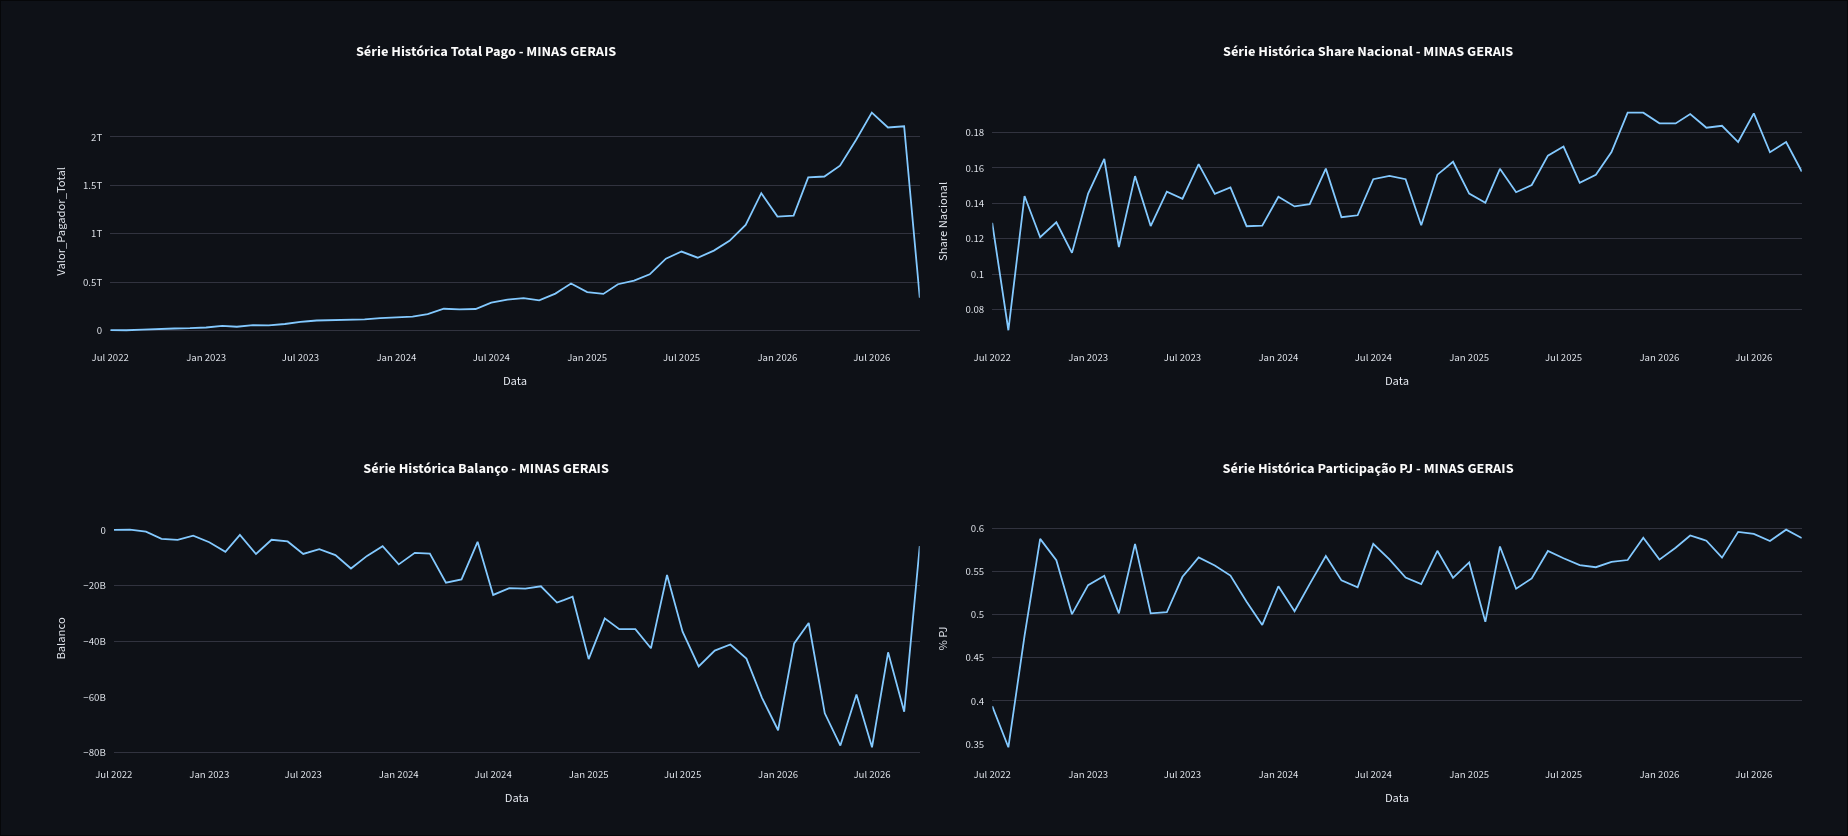
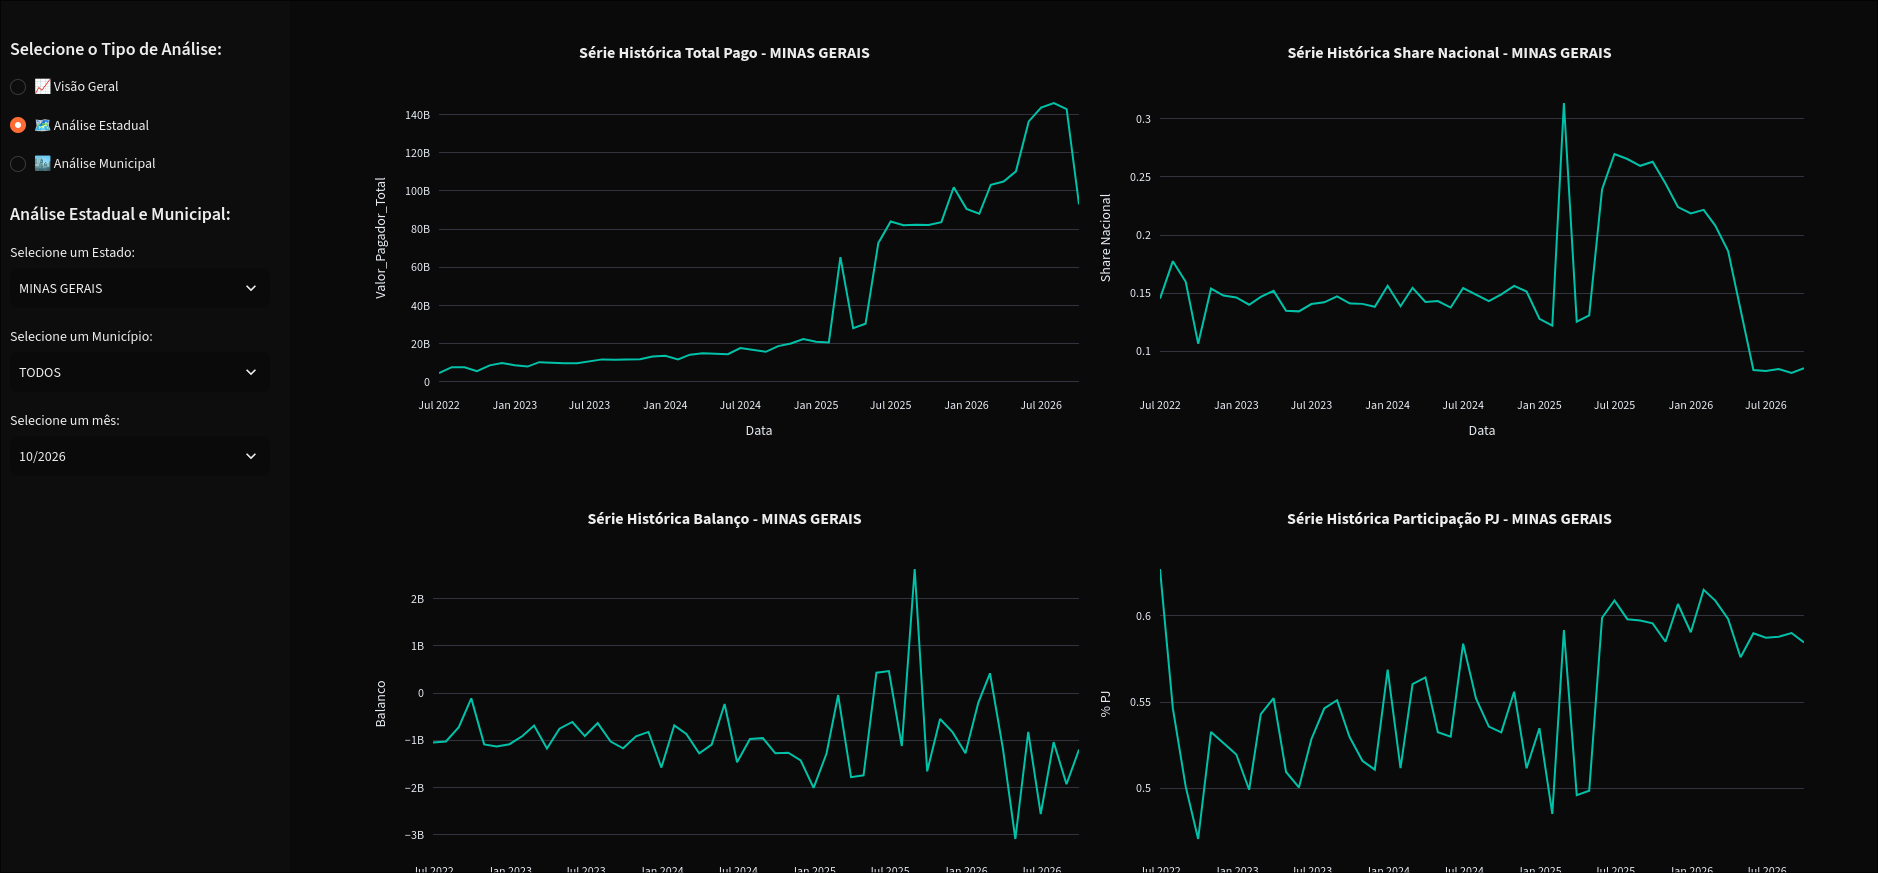
dashboard atualizado

diff --git a/src/app.py b/src/app.py
@@ -12,28 +12,36 @@ st.set_page_config(layout="wide")
 st.title('📊 Estatísticas e Indicadores do Pix por Município')
 apply_theme()
 
-estados = [r["Estado"] for r in get_estados(engine)]
-estados.insert(0, "TODOS")
-estado = st.selectbox("Selecione um Estado:", estados)
-
-if estado == "TODOS":
-        municipios = ["TODOS"]
-else:
-    municipios = [r["Municipio"] for r in get_municipios(engine, estado)]
-    municipios.insert(0, "TODOS")
-municipio = st.selectbox("Selecione um Município:", municipios)
-
-meses = [r["AnoMes"] for r in get_ano_mes(engine)]
-meses.reverse()
-
 with st.sidebar:
-    st.text("Selecione:")
+    st.subheader("Selecione o Tipo de Análise:")
     aba = st.radio(
         "Seção",
         ["📈 Visão Geral", "🗺 Análise Estadual", "🏙 Análise Municipal"],
         horizontal=True,
         key="aba_ativa",
         label_visibility="collapsed",
+    )
+
+    meses = [r["AnoMes"] for r in get_ano_mes(engine)]
+    meses.reverse()
+
+    st.subheader("Análise Estadual e Municipal:")
+    estados = [r["Estado"] for r in get_estados(engine)]
+    estados.insert(0, "TODOS")
+    estado = st.selectbox("Selecione um Estado:", estados)
+
+    if estado == "TODOS":
+            municipios = ["TODOS"]
+    else:
+        municipios = [r["Municipio"] for r in get_municipios(engine, estado)]
+        municipios.insert(0, "TODOS")
+    municipio = st.selectbox("Selecione um Município:", municipios)
+
+    ano_mes = st.selectbox(
+        "Selecione um mês:", 
+        meses, 
+        key="mes_estado",
+        format_func=lambda d: d.strftime("%m/%Y")
     )
 
 if aba == "📈 Visão Geral":    
@@ -132,19 +140,13 @@ if aba == "📈 Visão Geral":
         make_top_bar(top_pj,  title=f"Top 10 Municípios por Valor Pago por PJ - {estado}", y_label="Valor Pago")
 
 elif aba == "🗺 Análise Estadual":
-    ano_mes_estado = st.selectbox(
-        "Selecione um mês:", 
-        meses, 
-        key="mes_estado",
-        format_func=lambda d: d.strftime("%Y-%m")
-    )
     if estado == 'TODOS':
         st.warning("Selecione um estado!")
     else:
-        if not get_gold_estados(engine, estado, ano_mes_estado):
-            st.warning(f"Dados Não Obtidos para {estado} - {ano_mes_estado}")
+        if not get_gold_estados(engine, estado, ano_mes):
+            st.warning(f"Dados Não Obtidos para {estado} - {ano_mes}")
         else:
-            gold_estado_data = get_gold_estados(engine, estado, ano_mes_estado)[0]
+            gold_estado_data = get_gold_estados(engine, estado, ano_mes)[0]
             gold_estado_series = get_gold_estados_series(engine, estado)
             col3, col4 = st.columns(2)
 
@@ -161,9 +163,9 @@ elif aba == "🗺 Análise Estadual":
                     st.metric("Valor Total Pago", "Não Obtido")
                 
                 if balanco_estado:
-                    st.metric(f"Balanço Estadual em {ano_mes_estado}", show_values(balanco_estado))
+                    st.metric(f"Balanço Estadual em {ano_mes}", show_values(balanco_estado))
                 else:
-                    st.metric(f"Balanço Estadual em {ano_mes_estado}", "Não Obtido")
+                    st.metric(f"Balanço Estadual em {ano_mes}", "Não Obtido")
 
                 if var_mes_estado:
                     st.metric("Variação do Balanço em Relação ao Último Mês", f"{(var_mes_estado*100):.2f}%")
@@ -185,9 +187,9 @@ elif aba == "🗺 Análise Estadual":
                     st.metric("Porcentagem do Valor Pago PJ", "Não Obtida")
 
                 if share_nacional_estado:
-                    st.metric(f"Share Nacional em {ano_mes_estado}", f"{(share_nacional_estado*100):.2f}%")
+                    st.metric(f"Share Nacional em {ano_mes}", f"{(share_nacional_estado*100):.2f}%")
                 else:
-                    st.metric(f"Share Nacional em {ano_mes_estado}", "Não Obtido")
+                    st.metric(f"Share Nacional em {ano_mes}", "Não Obtido")
 
                 if var_ano_anterior_estado:
                     st.metric("Variação do Balanço em Relação ao Mesmo Mês do Ano Anterior", f"{(var_ano_anterior_estado*100):.2f}%")
@@ -204,18 +206,12 @@ elif aba == "🗺 Análise Estadual":
                     } for r in gold_estado_series], f"Série Histórica Participação PJ - {estado}")
 
 elif aba == "🏙 Análise Municipal":
-    ano_mes_municipio = st.selectbox(
-        "Selecione um mês:", 
-        meses, 
-        key="mes_municipio",
-        format_func=lambda d: d.strftime("%Y-%m")
-    )
     if estado == 'TODOS':
         st.warning("Selecione um estado!")
     if municipio == "TODOS":
         st.warning("Selecione um município!")
     else:
-        gold_municipio_data = get_gold_municipios(engine, estado, municipio, ano_mes_municipio)
+        gold_municipio_data = get_gold_municipios(engine, estado, municipio, ano_mes)
         gold_municipio_series = get_gold_municipios_series(engine, estado, municipio)
         if not gold_municipio_data:
             st.warning("Sem dados para este município neste mês.")
@@ -236,9 +232,9 @@ elif aba == "🏙 Análise Municipal":
                     st.metric("Valor Total Pago", "Não Obtido")
 
                 if balanco_municipio:
-                    st.metric(f"Balanço Municipal em {ano_mes_municipio}", show_values(balanco_municipio))
+                    st.metric(f"Balanço Municipal em {ano_mes}", show_values(balanco_municipio))
                 else:
-                    st.metric(f"Balanço Municipal em {ano_mes_municipio}", "Não Obtido")
+                    st.metric(f"Balanço Municipal em {ano_mes}", "Não Obtido")
 
                 if var_mes_anterior_municipio:
                     st.metric("Variação do Balanço em Relação ao Último Mês", f"{(var_mes_anterior_municipio):.2f}%")
@@ -246,7 +242,7 @@ elif aba == "🏙 Análise Municipal":
                     st.metric("Variação do Balanço em Relação ao Último Mês", "Não Obtida")
                 
                 make_series([
-                    {"Valor_Pagador_Total": r["VL_Pagador_Total_Municipio"],
+                    {"Valor Pagador Total": r["VL_Pagador_Total_Municipio"],
                     "Data": r["AnoMes"]
                     } for r in gold_municipio_series], f"Série Histórica Total Pago - {municipio}")
                 make_series([
@@ -265,14 +261,14 @@ elif aba == "🏙 Análise Municipal":
                     st.metric("Porcentagem do Valor Pago PJ", "Não Obtida")
 
                 if share_nacional_municipio:
-                    st.metric(f"Share Nacional em {ano_mes_municipio}", f"{(share_nacional_municipio*100):.2f}%")
+                    st.metric(f"Share Nacional em {ano_mes}", f"{(share_nacional_municipio*100):.2f}%")
                 else:
-                    st.metric(f"Share Nacional em {ano_mes_municipio}", "Não Obtido")
+                    st.metric(f"Share Nacional em {ano_mes}", "Não Obtido")
 
                 if share_estadual_municipio:
-                    st.metric(f"Share Estadual em {ano_mes_municipio}", f"{(share_estadual_municipio*100):.2f}%")
+                    st.metric(f"Share Estadual em {ano_mes}", f"{(share_estadual_municipio*100):.2f}%")
                 else:
-                    st.metric(f"Share Estadual em {ano_mes_municipio}", "Não Obtido")
+                    st.metric(f"Share Estadual em {ano_mes}", "Não Obtido")
 
                 make_series([
                     {"Share Nacional": r["Share_Nacional_Municipio"],

diff --git a/src/utils/database.py b/src/utils/database.py
@@ -1,5 +1,6 @@
 from sqlalchemy import TextClause
-from sqlalchemy import create_engine, insert, text
+from sqlalchemy import create_engine, text
+from sqlalchemy.dialects.postgresql import insert
 from sqlalchemy.engine import Engine
 
 from src.models.models import Base, DadosAPI
@@ -20,7 +21,10 @@ def upload_sql(engine: Engine, data):
 
     data = prepare_data(data)
     with engine.begin() as conn:
-        conn.execute(insert(DadosAPI), data)
+        query = insert(DadosAPI).on_conflict_do_nothing(index_elements=[
+            "AnoMes", "Municipio", "Estado"
+        ])
+        conn.execute(query, data)
 
     logger.info(f"{len(data)} registro(s) salvo(s)")
 

diff --git a/src/models/models.py b/src/models/models.py
@@ -1,3 +1,4 @@
+from sqlalchemy import UniqueConstraint
 from sqlalchemy import ForeignKey, BigInteger
 from datetime import date
 from sqlalchemy.orm import DeclarativeBase, Mapped, mapped_column
@@ -7,6 +8,9 @@ class Base(DeclarativeBase):
 
 class DadosAPI(Base):
     __tablename__ = "DadosAPI"
+    __table_args__ = (
+        UniqueConstraint("AnoMes", "Municipio", "Estado", name="unique_dados"),
+    )
  
     id: Mapped[int] = mapped_column(primary_key=True) 
     AnoMes: Mapped[date]

diff --git a/src/load_database.py b/src/load_database.py
@@ -14,5 +14,5 @@ logging.basicConfig(
 engine = _get_engine(DB_CONNECTION)
 
 clean_database(engine) #Limpa o Banco de Dados
-get_sequential_and_upload(engine, API_URL, '202606', n_meses=48, n_dados_mes=5500) #Baixa os dados da API e carrega na tabela bronze em armazenar em RAM
+get_sequential_and_upload(engine, API_URL, '202606', n_meses=48, n_dados_mes=10000) #Baixa os dados da API e carrega na tabela bronze em armazenar em RAM
 setup_tables(engine) #Inicializa tabelas silver e gold
